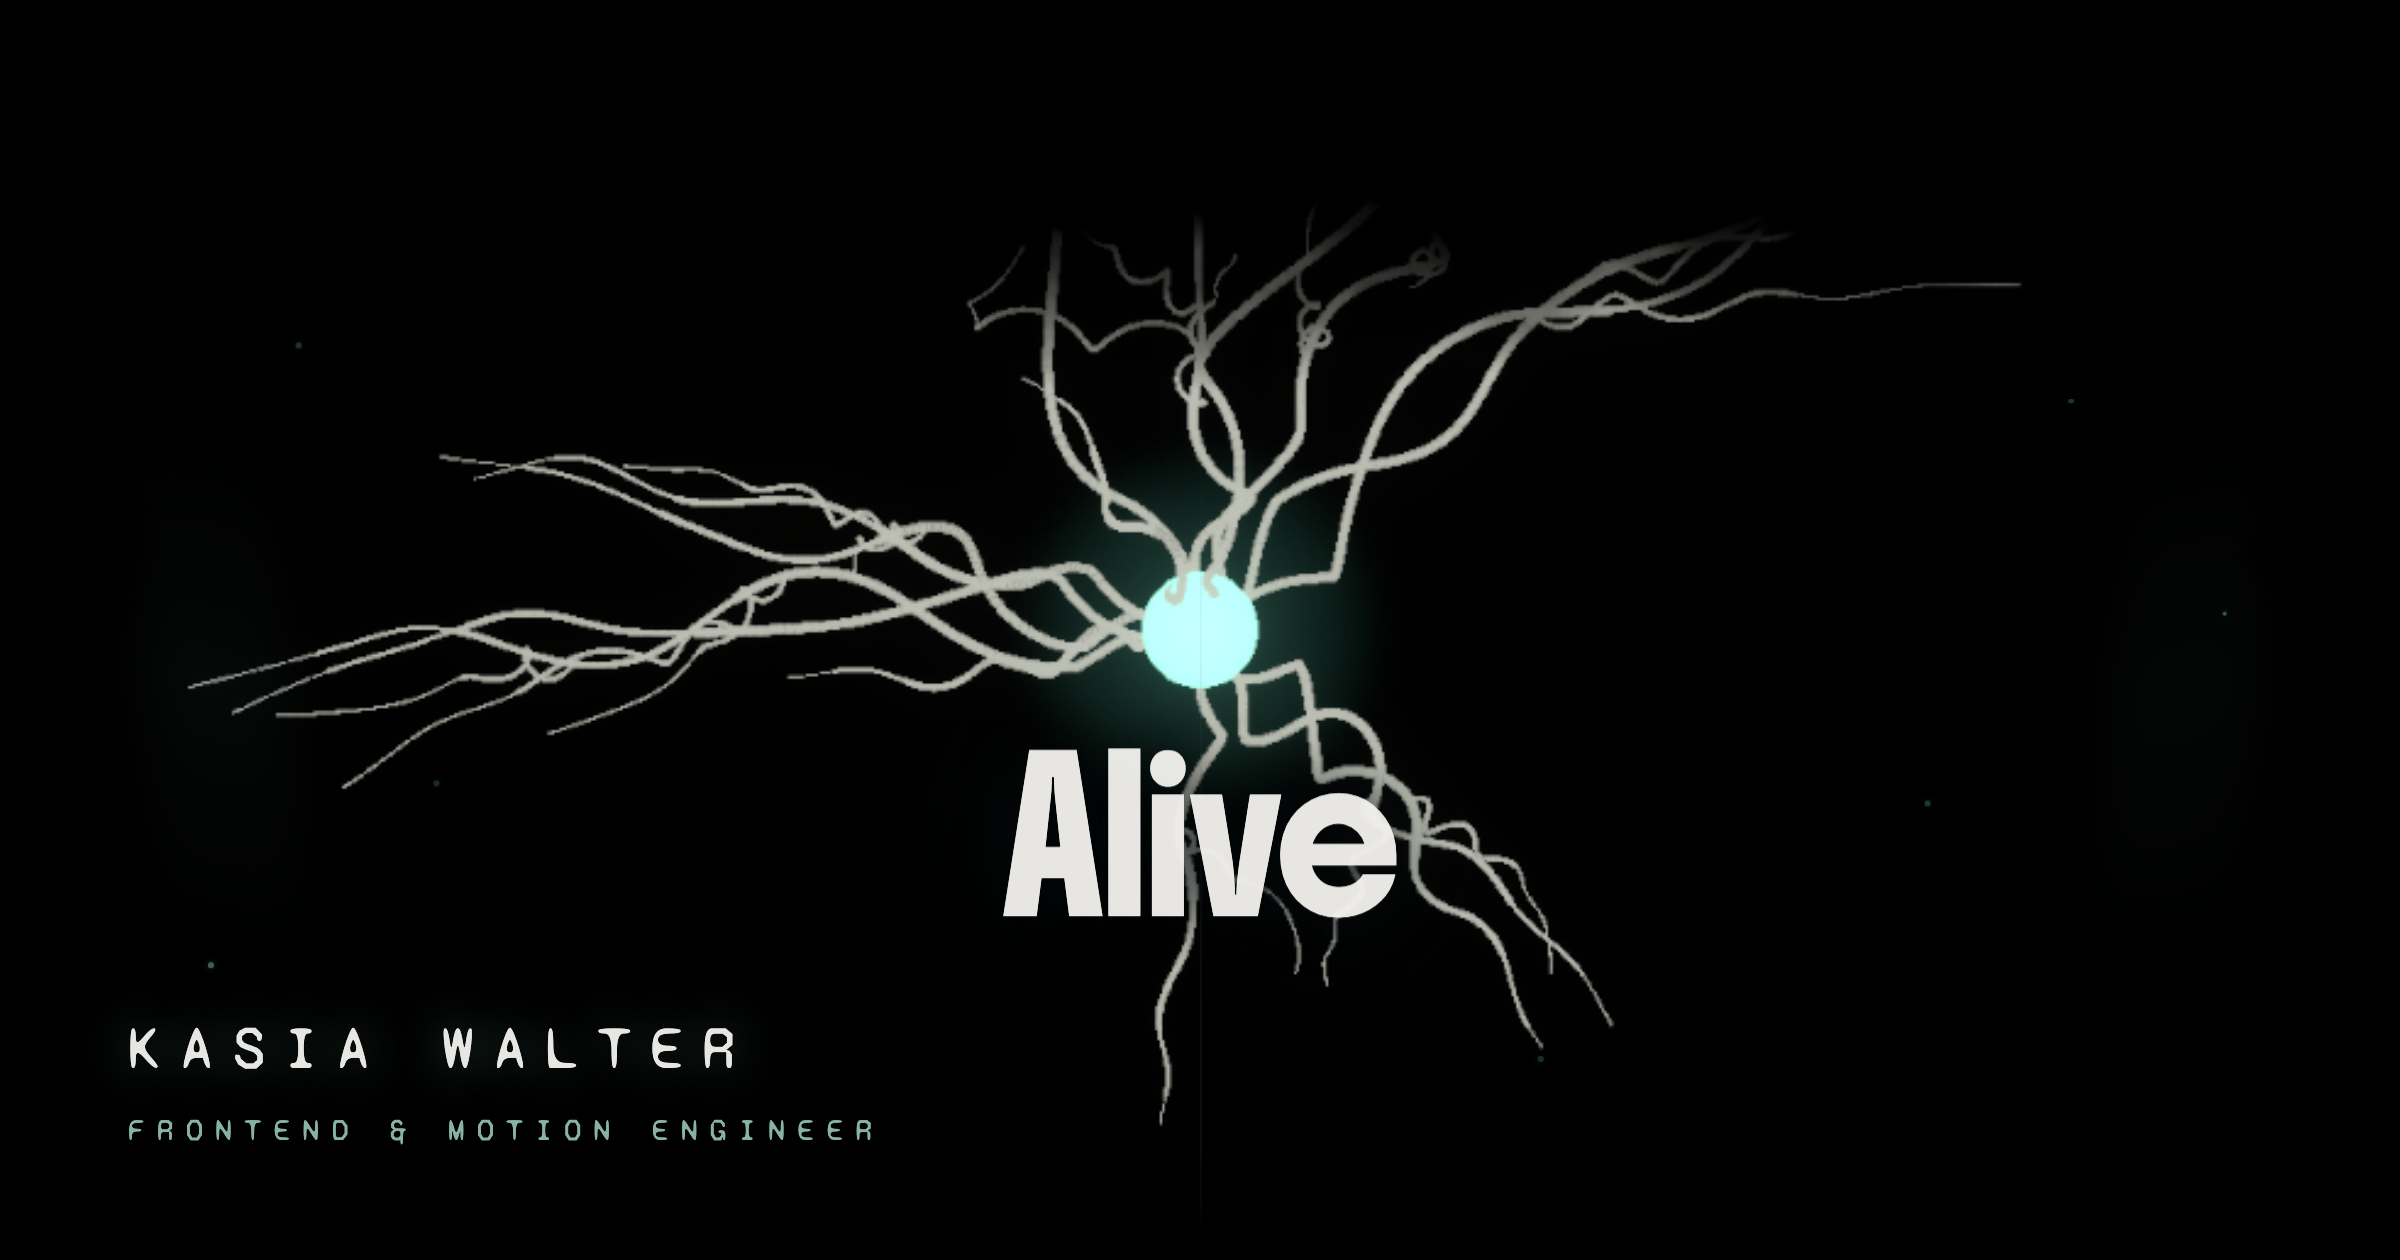
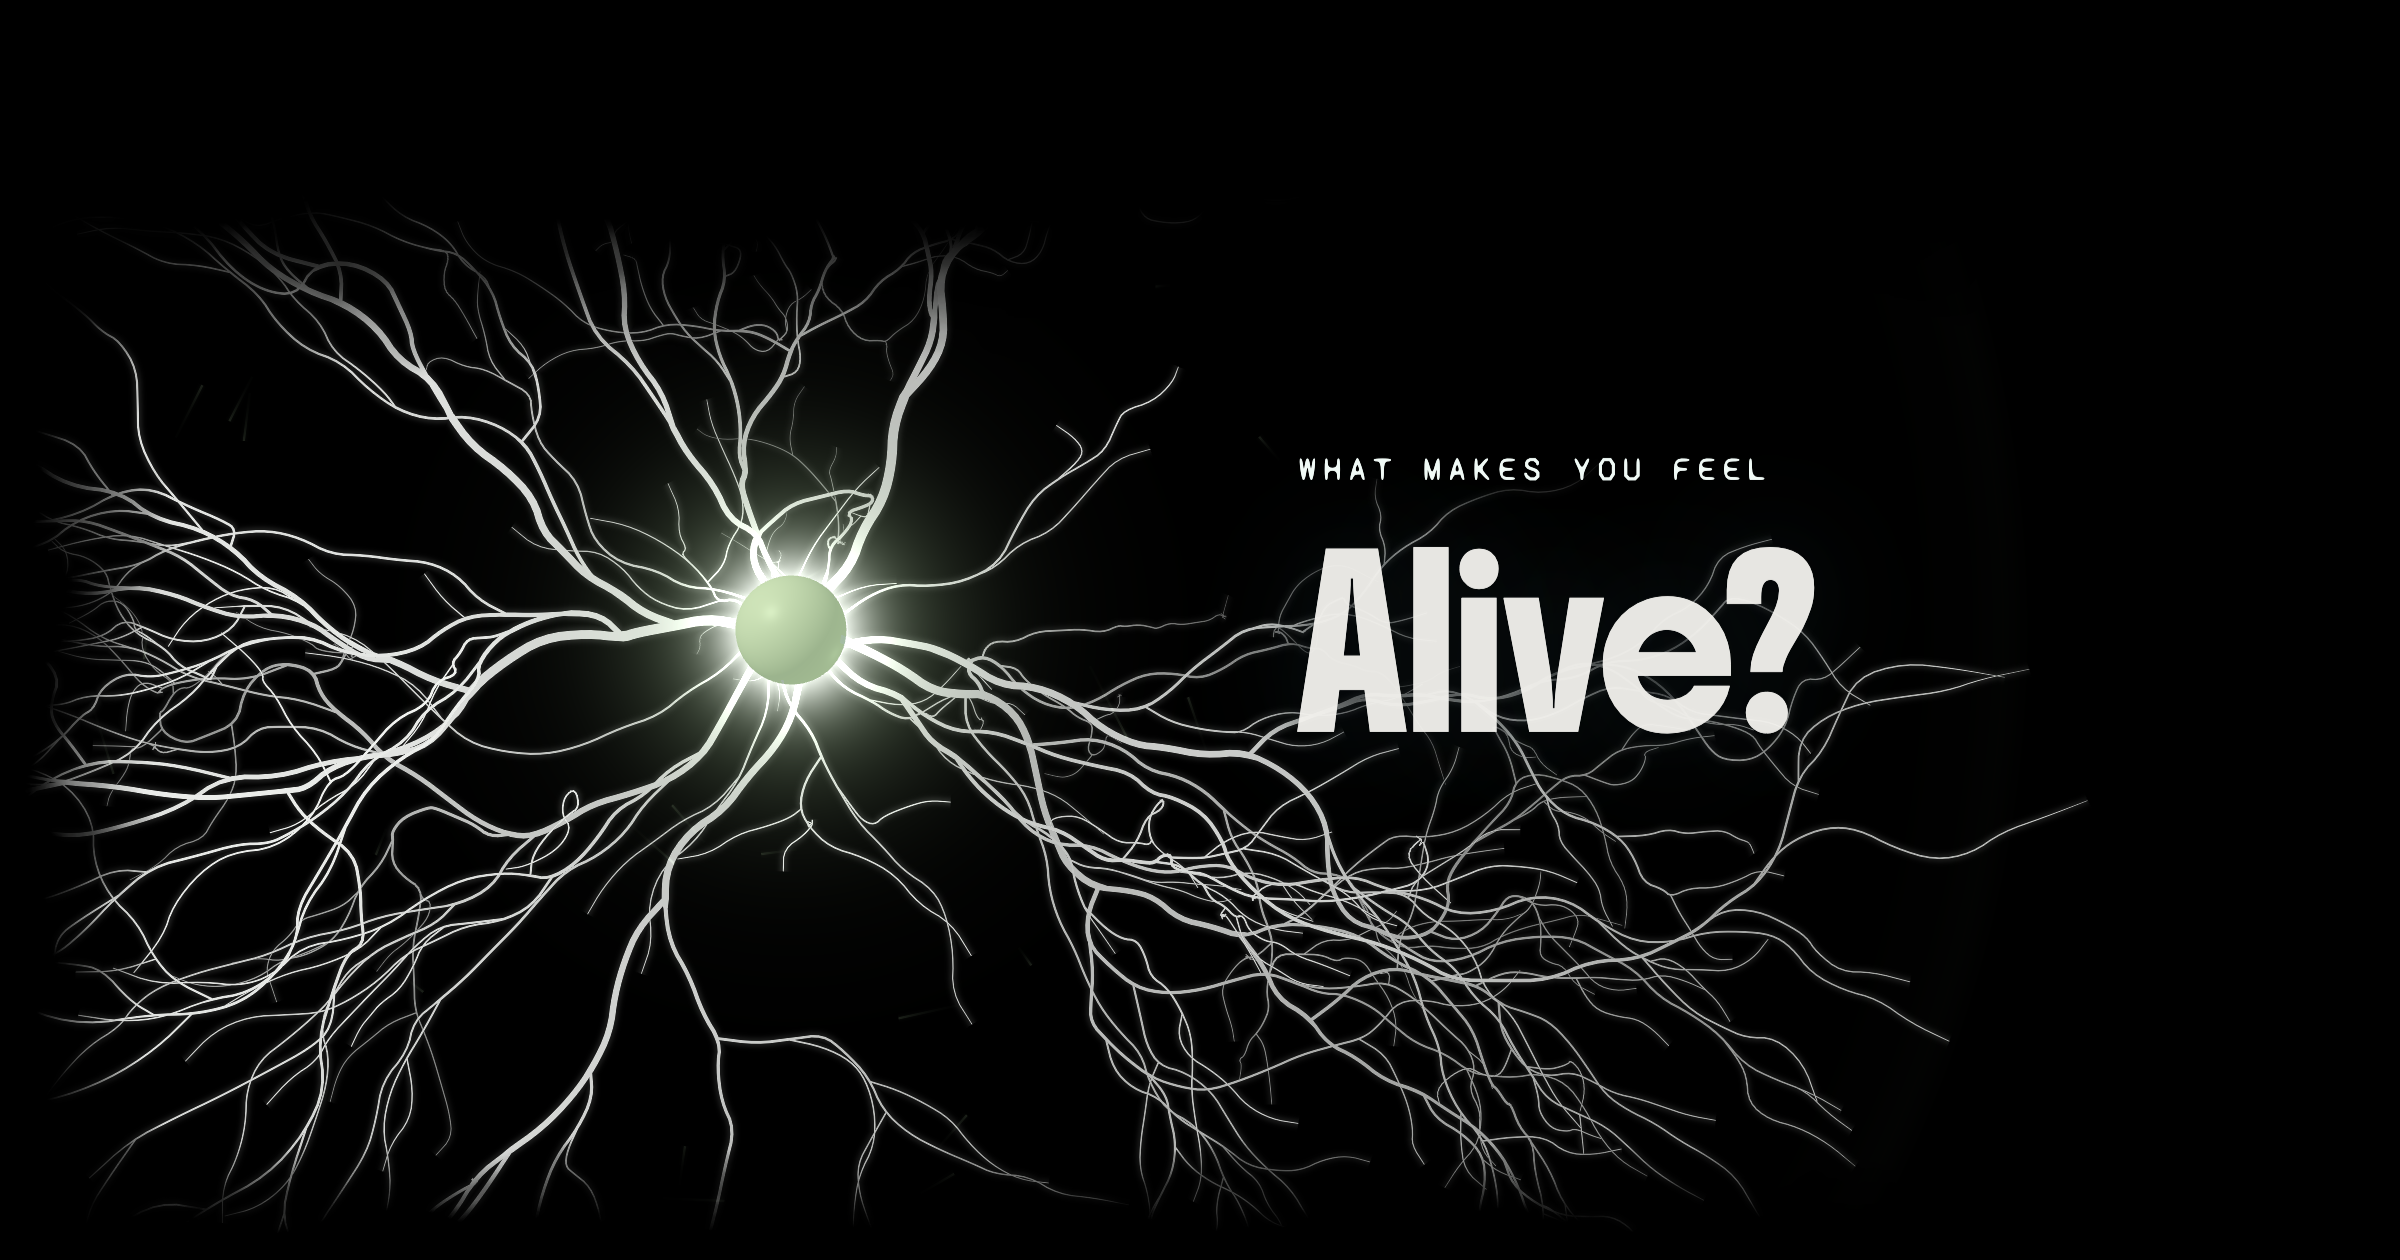
fix: the last journey segment arrives when the page bottoms out, so the mobile close settles between eyebrow and copy; new OG cover from the current hero

diff --git a/src/App.tsx b/src/App.tsx
@@ -257,7 +257,8 @@ function App() {
       { id: 'value-meaning', x: 50, y: 26, s: 0.65, o: 0.35, r: 170, g: 1.1, c: C.ochre, pulse: true },
       { id: 'value-play', x: 50, y: 26, s: 0.65, o: 0.35, r: 215, m: 2.4, g: 1.15, c: C.lichen },
       { id: 'value-rest', x: 50, y: 26, s: 0.6, o: 0.2, r: 235, m: 0.25, g: 0.7, c: C.dusk },
-      { id: 'contact', x: 50, y: 30, s: 0.55, o: 0.60, r: 270 },
+      // Between the eyebrow and the closing block.
+      { id: 'contact', x: 50, y: 47, s: 0.55, o: 0.60, r: 270 },
     ];
     const lerp = (a: number, b: number, t: number) => a + (b - a) * t;
     const lerpHex = (a: number, b: number, t: number) => {
@@ -300,9 +301,12 @@ function App() {
           return;
         }
         const nr = next.el.getBoundingClientRect();
-        if (r.top <= mid && nr.top > mid) {
+        // A last section shorter than the screen never brings its top up to
+        // `mid`; it arrives when the page bottoms out instead.
+        const arrive = i + 2 === secs.length ? Math.max(mid, window.innerHeight - nr.height) : mid;
+        if (r.top <= mid && nr.top > arrive) {
           enter(scene, k);
-          let raw = Math.min(1, Math.max(0, (mid - r.top) / (nr.top - r.top)));
+          let raw = Math.min(1, Math.max(0, (mid - r.top) / (mid - r.top + nr.top - arrive)));
           // Mobile has no "hold to charge" indicator and the seal is only a
           // faint backdrop behind the text — so a keyframe hold or a per-segment
           // ease reads as the scroll STICKING, not as intent. On mobile the seal
